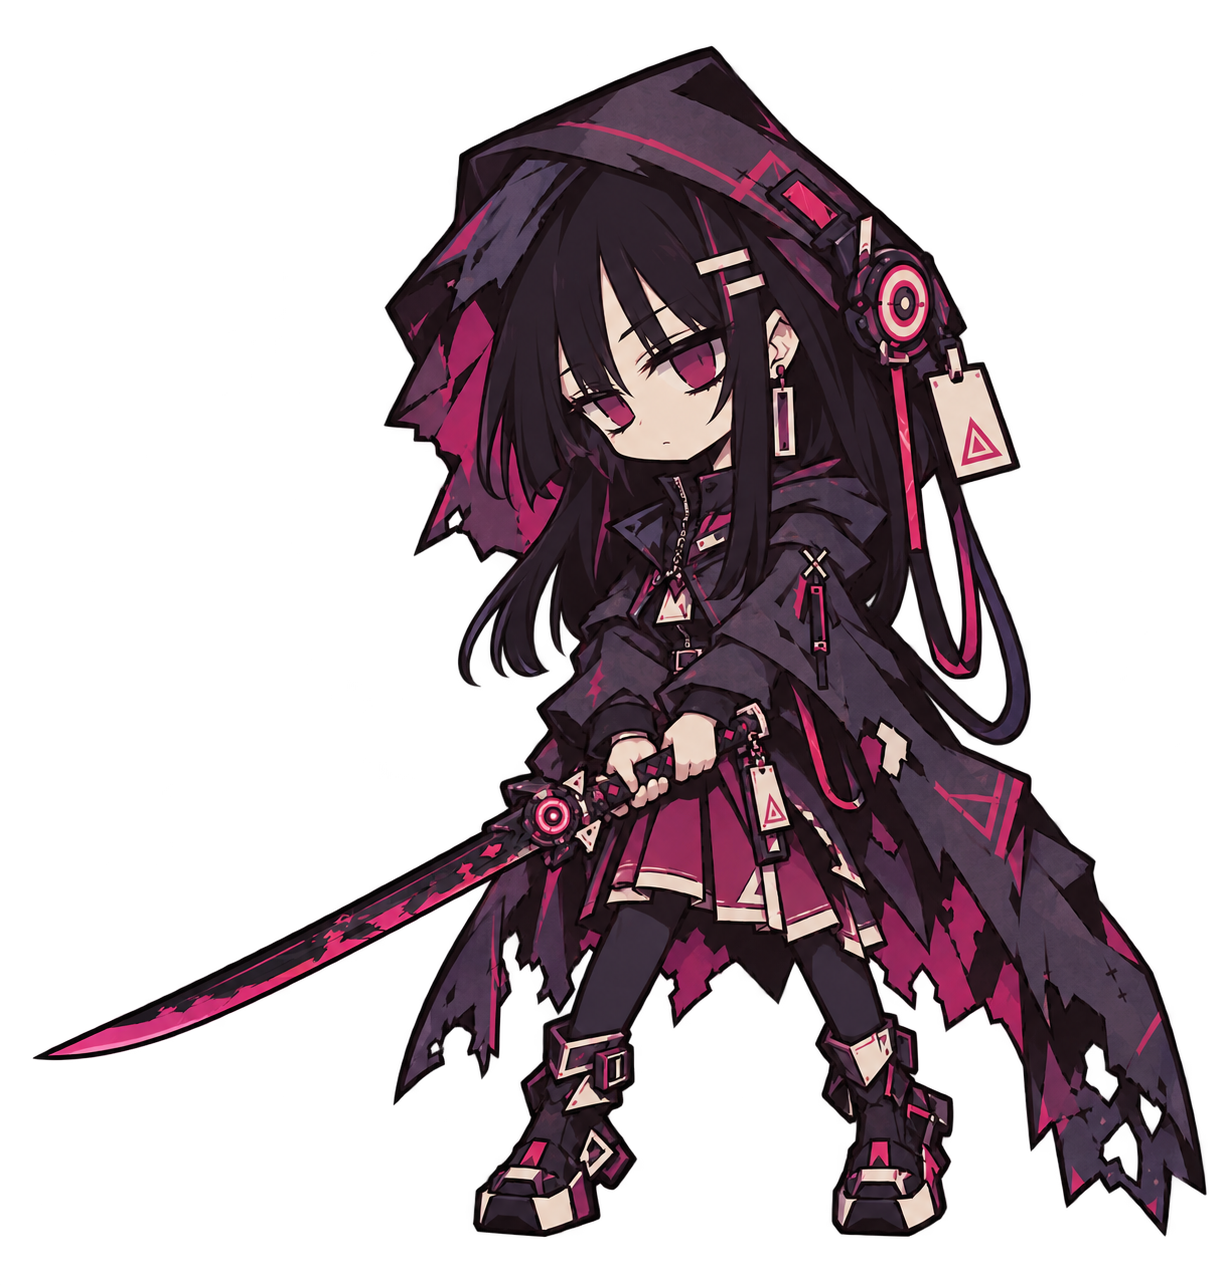
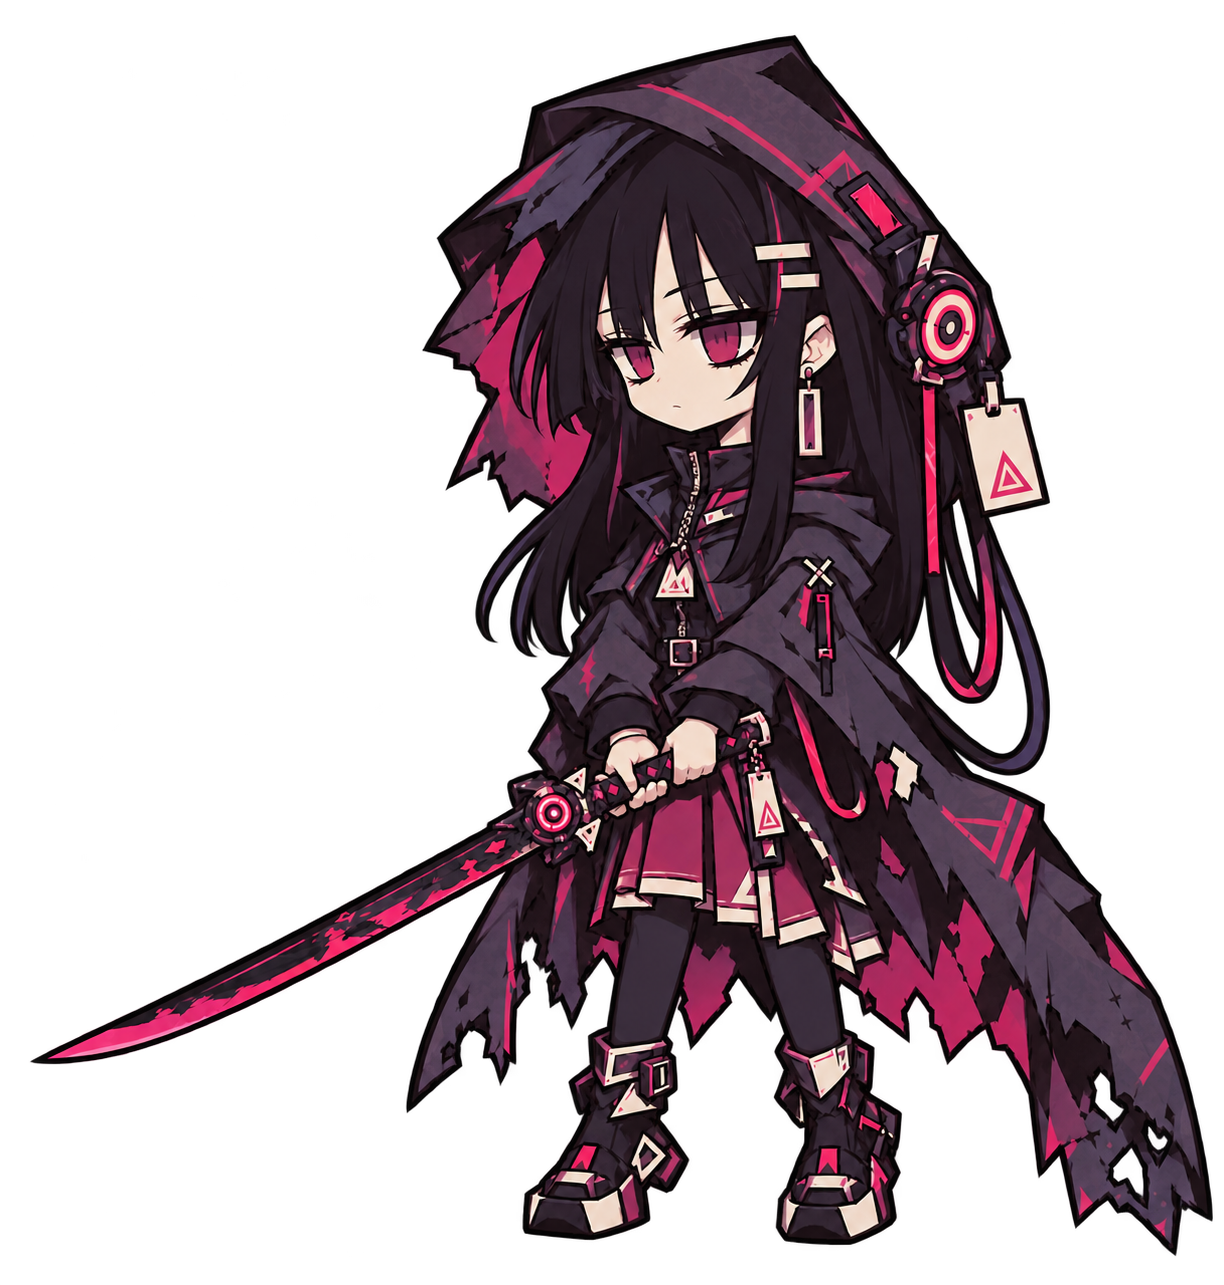
角色姿势修改

Changed region(s): [[0.1863, 0.0311, 0.9935, 0.9961], [0.031, 0.7782, 0.1863, 0.8405]]

diff --git a/docs/维护文档.md b/docs/维护文档.md
@@ -136,6 +136,7 @@ QA 都隔离缓存目录并关闭自动保存，不写用户正式存档。
 双击工程根目录 `战斗动作测试.command`，或运行 `scenes/combat_stage_demo.tscn`。该入口调用现有战斗演练，在本次内存中生成三名各 20 HP 的测试敌人，方便连续出牌与结束回合；关闭保存，退出不改变冒险。普通主菜单的战斗演练也可查看新演出，仍沿用原 3 HP。
 
 - 中央场景暂用黑幕、低对比透视铺板地面与椭圆脚下阴影；原背景资源保留。诺伦和敌人复用 `assets/combat_test/` 姿势图，敌方目前统一用 Finn 参考图作动作测试替身（含机甲战斗），不代表正式角色美术。来源与原始字节 SHA256 见 `sources.json`。
+- 2026-10-14 诺伦待机替换为用户更新的 `01_待机_idle.png`（与 `01_待机_idle_站直版_v2.png` 字节一致），保留原始 RGBA 图片；`pose_actor.gd` 待机脚底锚点为 `(710,1240)`，缩放仍为 `0.099`。归位残影自动复用该待机纹理与校准，其他姿势不变。
 - 人物待机约占画面高度 13%，近远位置有轻微比例变化；单敌攻击时拉近至 1.65 倍，多敌按纵深范围自适应倍率以保留所有可选敌人。镜头同时跟踪 X/Y，只变换中央人物、地面和特效；手牌、顶栏与按钮固定；敌人姓名和血条在右上角纵向排列，意图独立跟随各自头顶，保持固定字号和尺寸。目标命中区域及瞄准环跟随人物投影，重叠时优先选脚底 Y 较大的前方敌人。
 - 第一张近战攻击沿 X/Y 斜向接近目标，必要时绕过旁观者脚底区域，同目标后续攻击原地衔接；人物攻击后停留。每方首次攻击拉近，己方结束回合只拉远，敌方全部行动完成后存活且离开原位的人物同时化光归位：原站位先显出霓虹故障残影，再渐显人物，完成后才发下一轮手牌。
 - 模型只结算一次，返回逐次命中的 `damage / blocked / hpAfter / killed` 临时结果；显示血量等到对应命中点更新。`blocked` 目前始终为 0，格挡规则仍未实现。多段攻击逐次反馈；死亡角色淡出且不归位。

diff --git a/docs/修改记录.md b/docs/修改记录.md
@@ -1,5 +1,11 @@
 # 午夜委托项目修改记录
 
+## 2026 年 10 月 14 日 诺伦待机替换为站直版
+
+将用户美术文件夹更新的 `01_待机_idle.png` 原始字节复制到 `assets/combat_test/noren_idle.png`，与同目录 `01_待机_idle_站直版_v2.png` 一致，并更新 `sources.json` 来源及 SHA256。图片仍为 1224×1285 RGBA；待机脚底锚点从 `(710,1232)` 校准至 `(710,1240)`，缩放保持 `0.099`，站位与朝向不变。归位故障残影自动使用新的站直剪影；其他姿势、卡牌、UI 和战斗规则保持原样。
+
+验证：Godot 导入通过；1280×800 实际渲染与真实战斗视图调用的既有归位专项 24 项通过、0 失败，目视检查站姿落地与纯残影截图。该验证不代表物理鼠标输入验收。证据、原始回退文件及保护文件哈希在 `artifacts/qa/noren-idle-update-2026-10-14/`。版本号与发布包未更新。
+
 ## 2026 年 10 月 14 日 归位时先出现霓虹故障残影，再渐显人物
 
 敌方全部行动结束后的归位保留现有离场闪光与移动光迹；角色到达各自二维原位后先保持透明，在原站位显出三层青／洋红／紫色的人形霓虹残影，带横向故障切片、扫描线、色道错位与短碎线。0.22 秒后人物开始渐显，用 0.28 秒恢复正常颜色和透明度，残影同时收拢消散；所有需要归位的存活角色同步播放。重现阶段共 0.50 秒，比原 0.10 秒直接淡入增加约 0.40 秒。
